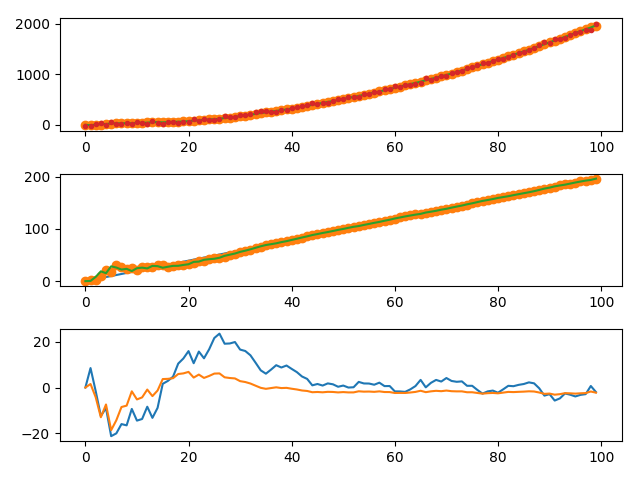
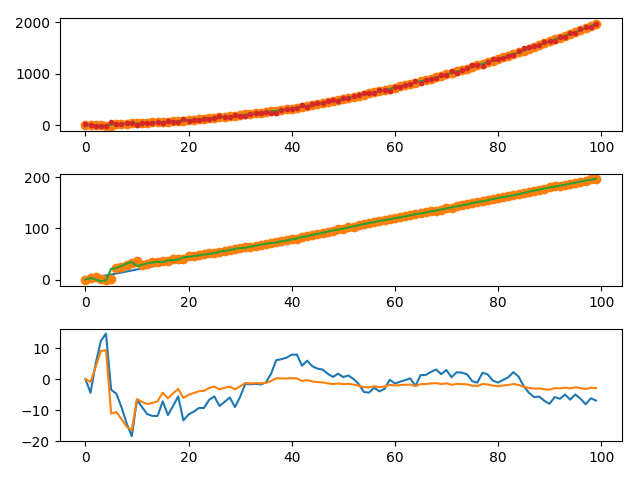
1D data correction

diff --git a/src/1Dball.py b/src/1Dball.py
@@ -127,7 +127,7 @@ def plot_results(t, x, s, v, a, u, y, K, P, xhat, z):
     datPos[:, 0] = t.reshape((t.size, 1))
     datPos[:, 1] = s
     datPos[:, 2] = z[:, 0]
-    datPos[:, 3] = y[:, 0]
+    datPos[:, 3] = x[:, 0]
     np.savetxt('fallingBallPos.dat', datPos, delimiter=',')
 
     datSpeed = np.zeros((t.size, 3, 1))
